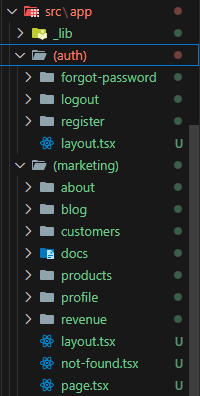
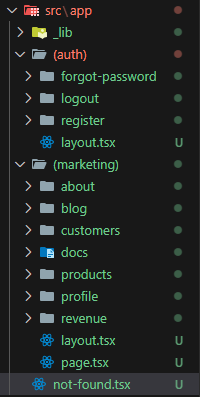
Metadata docs completed

diff --git a/Next.js/Metadata.md b/Next.js/Metadata.md
@@ -1,0 +1,108 @@
+We can customize our metadata in each of the "layout.tsx/layout.jsx" file or "page.tsx/page.jsx" file as;
+
+```
+export const metadata = {
+  title: 'Learning next.js',
+  description: 'Generated by browser',
+}
+```
+
+If you want specific metadata for particular route, then you can go to the "page.tsx/page.jsx" file inside the route and customize the metadata object just like the above.
+
+If you want a dynamic metadata, then you have to use write "generateMetadata" function and return the object as metadata. This function returns "Promise<Metadata>" as an object.
+<br> **Note:** The function name should be exactly "generateMetadata". You can't have "metadata" object and "generateMetadata" function inside the same file.
+<br> The sample code is written below
+
+```
+export const generateMetadata = async ({
+    params,
+}: Props): Promise<Metadata> => {
+    const id = (await params).productId;
+    // Here for the title, new Promise is created since, we're waiting for the data to be fetched from the database which requires time. If we don't want to wait or don't want data to be fetched, then it is not necessary to create a new Promise
+    const title = await new Promise((resolve) => {
+        setTimeout(() => {
+            resolve(`iPhone ${id}`);
+        }, 100);
+    })
+
+    return {
+        title: `Product ${title}`,
+    };
+}
+```
+
+Also, you must import "Metadata" from next, to create this function.
+
+```
+import { Metadata } from "next";
+```
+
+Type interfacing can be done in typeScript as;
+
+```
+type Props = {
+    params: Promise<{ productId: string }>;
+}
+```
+
+Remember you can't use "metadata" object or "generateMetadata" function in client-side routes directly.
+<br> If you want to use it in client-side route, then create a separate component file inside that route folder and write the code which includes "react-hooks" and "use client" directive, then. Then import the component in your "page.tsx/page.jsx" file to be rendered.
+<br> The sample code for the component looks-like.
+
+```
+"use client";
+
+import { useState } from "react";
+
+export const Counter = () => {
+    const [ count, setCount ] = useState(0);
+
+    return<>
+        <h2>Count: {count}</h2>
+        <button onClick={() => setCount( count+1 )}>Increase</button>
+        <button onClick={() => setCount( count-1 )}>Decrease</button>
+    </>
+}
+```
+
+And the code for the "page.tsx/page.jsx" file is;
+
+```
+import { Counter } from "./counter";
+
+export const metadata = {
+    title: "Count",
+};
+
+export default function CounterPage() {
+    return <Counter />;
+}
+```
+
+The folder structure for client-side dynamic metadata handling looks like
+
+![client-component-metadata](../images/client-component-metadata.png)
+
+If you need more control when defining an object, then you can use title Metadata. For that, we need to import "Metadata" from next and write the type of metadata object or "generateMetadata" function to "Metadata". Now, writing objects to "title" inside metadata will give you three powerful options, "default", "template" and "absolute". Default is applied for all those routes, where you don't have specific title metadata. Template is applied for those which have their own specific metadata but it is custom, means that %s is replaced by your particular route title name and other remains the same. And absolute is used if you want the exact title name you define in a particular route. The sample code is written below
+
+```
+import { Metadata } from "next"
+
+export const metadata: Metadata = {
+  title: {
+    default: "Learn Next.js",
+    template: `%s | Next.js`,
+  },
+  description: 'Generated by Next.js',
+}
+```
+
+```
+import { Metadata } from "next";
+
+export const metadata: Metadata = {
+    title: {
+        absolute: "About"
+    }
+}
+```

diff --git a/Next.js/layout.md b/Next.js/layout.md
@@ -28,7 +28,7 @@ The folder structure for nested layouts looks like as shown below;
 ![nested-layouts](../images/nested-layouts.png)
 
 Sometimes, you want root layout to exist for most of the routes but for certain routes (Eg: register,forgot-password), you may not want that layout. For this purpose, route groups come in handy. We create separate route groups for those which want that layout and also the next route group is created for those routes which don't want the layout and put the necessary routes inside it.
-**Note:** The "page.tsx/page.jsx" file must be moved inside the route groups where you want the layout to exist. There shouldn't be any "page.tsx/page.jsx" file in the "app" directory. If "not-found.tsx/not-found.jsx" exists, then that should also be moved inside the route group.
+<br>**Note:** The "page.tsx/page.jsx" file must be moved inside the route groups where you want the layout to exist. There shouldn't be any "page.tsx/page.jsx" file in the "app" directory.
 <br> The folder structure looks as shown below.
 
 ![multiple-root-layouts](../images/multiple-root-layouts.png)
